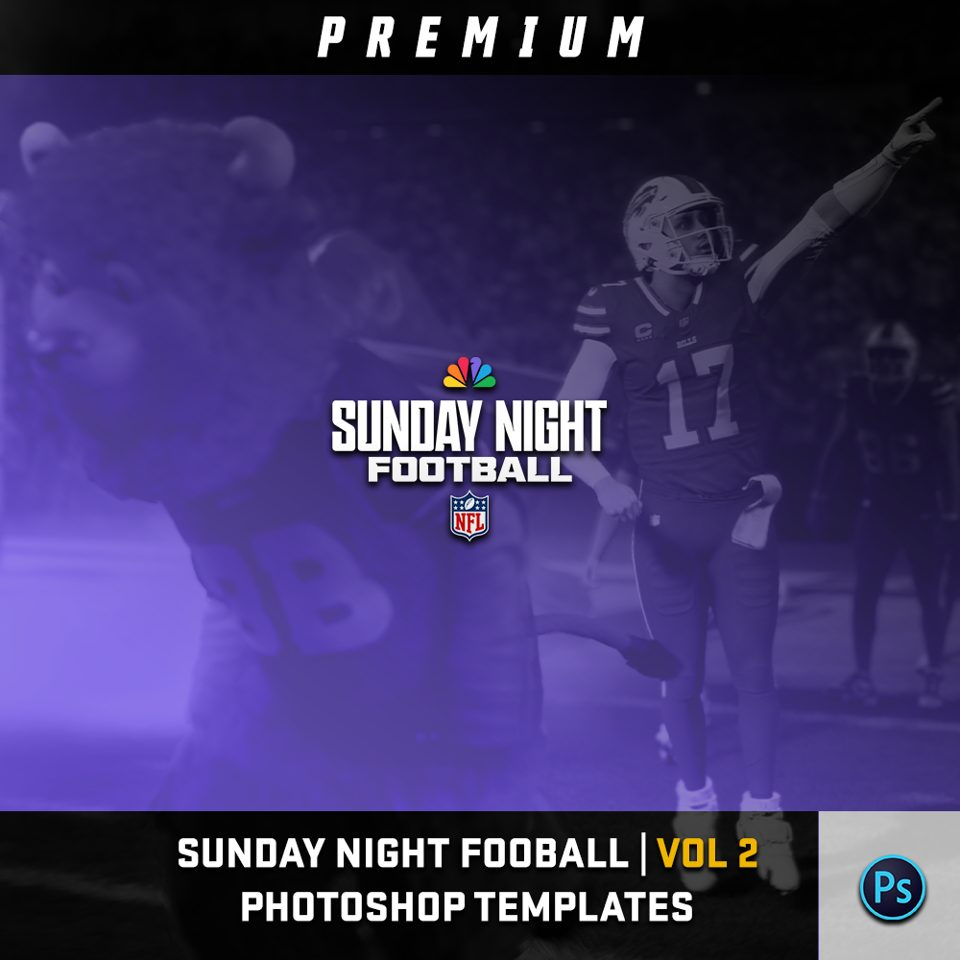
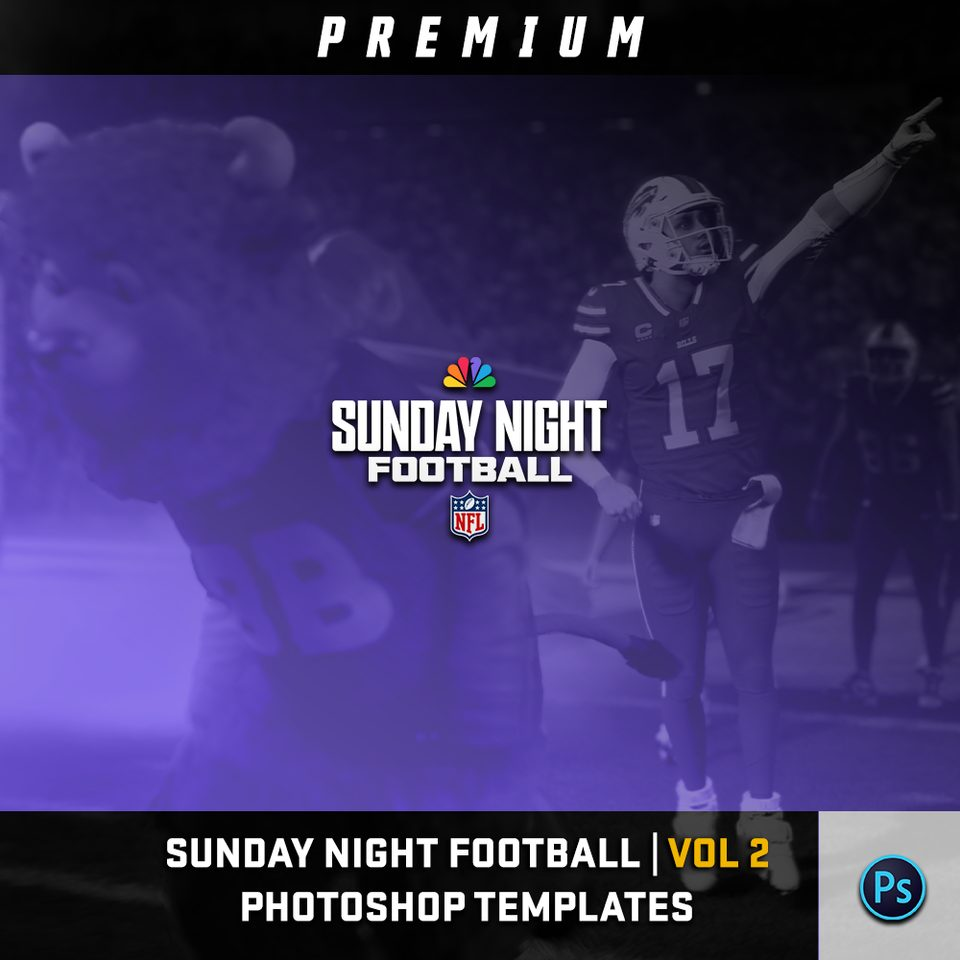
Template Store: box art for all six packs (Sunday Night typo fixed), 27 single templates, store help bot

Changed region(s): [[0.1562, 0.875, 0.8125, 0.9062]]

diff --git a/index.html b/index.html
@@ -295,6 +295,19 @@
   a.buy{display:inline-block; text-decoration:none; background:var(--accent); color:#fff; border-color:var(--accent); cursor:pointer}
   a.buy:hover,a.buy:focus-visible{filter:brightness(1.1)}
   .store-cta{display:flex; flex-wrap:wrap; gap:12px; align-items:center; margin-top:26px}
+  .singles-head{margin:44px 0 6px; display:flex; flex-wrap:wrap; gap:6px 18px; align-items:baseline}
+  .singles-head h3{font-family:"Oswald",sans-serif; font-size:1.5rem; color:#fff; margin:0; letter-spacing:.02em}
+  .singles-head p{margin:0; color:var(--on-dark-muted)}
+  .singles{display:grid; grid-template-columns:repeat(auto-fill,minmax(220px,1fr)); gap:16px; margin-top:16px}
+  .single{border:1px solid #2e3a46; border-radius:8px; background:var(--dark-2); overflow:hidden; display:flex; flex-direction:column}
+  .single .sart{aspect-ratio:16/9; max-width:100%; background:#0b1015; display:flex; align-items:center; justify-content:center}
+  .single .sart img{width:100%; height:100%; object-fit:contain; display:block}
+  .single .sbody{padding:12px 14px 14px; display:flex; flex-direction:column; gap:6px; flex:1}
+  .single .count{font-family:"IBM Plex Mono",monospace; font-size:.74rem; color:var(--gold)}
+  .single h4{margin:0; font-size:1rem; color:#fff; flex:1}
+  .single .price-row{padding-top:10px}
+  .single .price{font-size:.9rem; color:#9fb0bd}
+  .single .buy{padding:6px 12px; font-size:.8rem}
 
   /* Roadmap */
   .roadmap{list-style:none; margin:0; padding:0; display:grid; gap:0}
@@ -639,7 +652,7 @@
     </div>
 
     <div class="store-note">
-      <p><strong>Opening soon.</strong> Six packs, 89 layered Photoshop templates. Checkout and instant downloads run through the Inside MGN store on Payhip.</p>
+      <p><strong>Opening soon.</strong> Six packs, 89 layered Photoshop templates, and single templates sold one by one. Checkout and instant downloads run through the Inside MGN store on Payhip.</p>
     </div>
 
     <div class="store-grid">
@@ -671,7 +684,7 @@
         </div>
       </div>
       <div class="pack real">
-        <div class="art"><span class="soon">Box art<br>coming soon</span></div>
+        <div class="art"><img src="store-p4.jpg" alt="Power Rankings Pack box art" loading="lazy" width="960" height="960"></div>
         <div class="body">
           <span class="count">13 templates + 2 logos · layered PSD</span>
           <h3>Power Rankings Pack</h3>
@@ -680,7 +693,7 @@
         </div>
       </div>
       <div class="pack real">
-        <div class="art"><span class="soon">Box art<br>coming soon</span></div>
+        <div class="art"><img src="store-p5.jpg" alt="Gameday Show Pack box art" loading="lazy" width="960" height="960"></div>
         <div class="body">
           <span class="count">11 templates · layered PSD</span>
           <h3>Gameday Show Pack</h3>
@@ -689,7 +702,7 @@
         </div>
       </div>
       <div class="pack real">
-        <div class="art"><span class="soon">Box art<br>coming soon</span></div>
+        <div class="art"><img src="store-p6.jpg" alt="League Essentials Pack box art" loading="lazy" width="960" height="960"></div>
         <div class="body">
           <span class="count">31 templates · layered PSD</span>
           <h3>League Essentials Pack</h3>
@@ -699,10 +712,149 @@
       </div>
     </div>
 
+    <div class="singles-head"><h3>Single templates</h3><p>Need just one? Every template is also sold on its own.</p></div>
+    <div class="singles">
+        <div class="single">
+          <div class="sart"><img src="store/single-01.jpg" alt="Player by Player Promo preview" loading="lazy" width="640" height="360"></div>
+          <div class="sbody"><span class="count">From the Score Bugs and Analysis pack</span><h4>Player by Player Promo</h4>
+          <div class="price-row"><span class="price">Price coming soon</span><a class="buy" href="https://payhip.com/insidemgn" target="_blank" rel="noopener">View</a></div></div>
+        </div>
+        <div class="single">
+          <div class="sart"><img src="store/single-02.jpg" alt="Game Predictions Board preview" loading="lazy" width="640" height="360"></div>
+          <div class="sbody"><span class="count">From the Score Bugs and Analysis pack</span><h4>Game Predictions Board</h4>
+          <div class="price-row"><span class="price">Price coming soon</span><a class="buy" href="https://payhip.com/insidemgn" target="_blank" rel="noopener">View</a></div></div>
+        </div>
+        <div class="single">
+          <div class="sart"><img src="store/single-03.jpg" alt="Player Comparison preview" loading="lazy" width="640" height="360"></div>
+          <div class="sbody"><span class="count">From the Score Bugs and Analysis pack</span><h4>Player Comparison</h4>
+          <div class="price-row"><span class="price">Price coming soon</span><a class="buy" href="https://payhip.com/insidemgn" target="_blank" rel="noopener">View</a></div></div>
+        </div>
+        <div class="single">
+          <div class="sart"><img src="store/single-04.jpg" alt="Player or Team Center Piece preview" loading="lazy" width="640" height="360"></div>
+          <div class="sbody"><span class="count">From the Score Bugs and Analysis pack</span><h4>Player or Team Center Piece</h4>
+          <div class="price-row"><span class="price">Price coming soon</span><a class="buy" href="https://payhip.com/insidemgn" target="_blank" rel="noopener">View</a></div></div>
+        </div>
+        <div class="single">
+          <div class="sart"><img src="store/single-05.jpg" alt="Reasons for the Lead preview" loading="lazy" width="640" height="360"></div>
+          <div class="sbody"><span class="count">From the Score Bugs and Analysis pack</span><h4>Reasons for the Lead</h4>
+          <div class="price-row"><span class="price">Price coming soon</span><a class="buy" href="https://payhip.com/insidemgn" target="_blank" rel="noopener">View</a></div></div>
+        </div>
+        <div class="single">
+          <div class="sart"><img src="store/single-06.jpg" alt="Player Score Bar (Lower Third) preview" loading="lazy" width="640" height="360"></div>
+          <div class="sbody"><span class="count">From the Score Bugs and Analysis pack</span><h4>Player Score Bar (Lower Third)</h4>
+          <div class="price-row"><span class="price">Price coming soon</span><a class="buy" href="https://payhip.com/insidemgn" target="_blank" rel="noopener">View</a></div></div>
+        </div>
+        <div class="single">
+          <div class="sart"><img src="store/single-07.jpg" alt="Score Bar Style 1 (Lower Third) preview" loading="lazy" width="640" height="360"></div>
+          <div class="sbody"><span class="count">From the Score Bugs and Analysis pack</span><h4>Score Bar Style 1 (Lower Third)</h4>
+          <div class="price-row"><span class="price">Price coming soon</span><a class="buy" href="https://payhip.com/insidemgn" target="_blank" rel="noopener">View</a></div></div>
+        </div>
+        <div class="single">
+          <div class="sart"><img src="store/single-08.jpg" alt="Score Bar Style 2 (Lower Third) preview" loading="lazy" width="640" height="360"></div>
+          <div class="sbody"><span class="count">From the Score Bugs and Analysis pack</span><h4>Score Bar Style 2 (Lower Third)</h4>
+          <div class="price-row"><span class="price">Price coming soon</span><a class="buy" href="https://payhip.com/insidemgn" target="_blank" rel="noopener">View</a></div></div>
+        </div>
+        <div class="single">
+          <div class="sart"><img src="store/single-09.jpg" alt="Halftime Center Piece preview" loading="lazy" width="640" height="360"></div>
+          <div class="sbody"><span class="count">From the Halftime and Lower Thirds pack</span><h4>Halftime Center Piece</h4>
+          <div class="price-row"><span class="price">Price coming soon</span><a class="buy" href="https://payhip.com/insidemgn" target="_blank" rel="noopener">View</a></div></div>
+        </div>
+        <div class="single">
+          <div class="sart"><img src="store/single-10.jpg" alt="Halftime Final Score (Lower Third) preview" loading="lazy" width="640" height="360"></div>
+          <div class="sbody"><span class="count">From the Halftime and Lower Thirds pack</span><h4>Halftime Final Score (Lower Third)</h4>
+          <div class="price-row"><span class="price">Price coming soon</span><a class="buy" href="https://payhip.com/insidemgn" target="_blank" rel="noopener">View</a></div></div>
+        </div>
+        <div class="single">
+          <div class="sart"><img src="store/single-11.jpg" alt="Head to Head Center Piece preview" loading="lazy" width="640" height="360"></div>
+          <div class="sbody"><span class="count">From the Halftime and Lower Thirds pack</span><h4>Head to Head Center Piece</h4>
+          <div class="price-row"><span class="price">Price coming soon</span><a class="buy" href="https://payhip.com/insidemgn" target="_blank" rel="noopener">View</a></div></div>
+        </div>
+        <div class="single">
+          <div class="sart"><img src="store/single-12.jpg" alt="Scoreboard (Lower Third) preview" loading="lazy" width="640" height="360"></div>
+          <div class="sbody"><span class="count">From the Halftime and Lower Thirds pack</span><h4>Scoreboard (Lower Third)</h4>
+          <div class="price-row"><span class="price">Price coming soon</span><a class="buy" href="https://payhip.com/insidemgn" target="_blank" rel="noopener">View</a></div></div>
+        </div>
+        <div class="single">
+          <div class="sart"><img src="store/single-13.jpg" alt="Stadium (Lower Third) preview" loading="lazy" width="640" height="360"></div>
+          <div class="sbody"><span class="count">From the Halftime and Lower Thirds pack</span><h4>Stadium (Lower Third)</h4>
+          <div class="price-row"><span class="price">Price coming soon</span><a class="buy" href="https://payhip.com/insidemgn" target="_blank" rel="noopener">View</a></div></div>
+        </div>
+        <div class="single">
+          <div class="sart"><img src="store/single-14.jpg" alt="Player (Lower Third) preview" loading="lazy" width="640" height="360"></div>
+          <div class="sbody"><span class="count">From the Halftime and Lower Thirds pack</span><h4>Player (Lower Third)</h4>
+          <div class="price-row"><span class="price">Price coming soon</span><a class="buy" href="https://payhip.com/insidemgn" target="_blank" rel="noopener">View</a></div></div>
+        </div>
+        <div class="single">
+          <div class="sart"><img src="store/single-15.jpg" alt="Player 2 (Lower Third) preview" loading="lazy" width="640" height="360"></div>
+          <div class="sbody"><span class="count">From the Halftime and Lower Thirds pack</span><h4>Player 2 (Lower Third)</h4>
+          <div class="price-row"><span class="price">Price coming soon</span><a class="buy" href="https://payhip.com/insidemgn" target="_blank" rel="noopener">View</a></div></div>
+        </div>
+        <div class="single">
+          <div class="sart"><img src="store/single-16.jpg" alt="Three Player Stat Card preview" loading="lazy" width="640" height="360"></div>
+          <div class="sbody"><span class="count">From the Prime Time pack</span><h4>Three Player Stat Card</h4>
+          <div class="price-row"><span class="price">Price coming soon</span><a class="buy" href="https://payhip.com/insidemgn" target="_blank" rel="noopener">View</a></div></div>
+        </div>
+        <div class="single">
+          <div class="sart"><img src="store/single-17.jpg" alt="Coaching Stat Line preview" loading="lazy" width="640" height="360"></div>
+          <div class="sbody"><span class="count">From the Prime Time pack</span><h4>Coaching Stat Line</h4>
+          <div class="price-row"><span class="price">Price coming soon</span><a class="buy" href="https://payhip.com/insidemgn" target="_blank" rel="noopener">View</a></div></div>
+        </div>
+        <div class="single">
+          <div class="sart"><img src="store/single-18.jpg" alt="Head to Head Center Piece preview" loading="lazy" width="640" height="360"></div>
+          <div class="sbody"><span class="count">From the Prime Time pack</span><h4>Head to Head Center Piece</h4>
+          <div class="price-row"><span class="price">Price coming soon</span><a class="buy" href="https://payhip.com/insidemgn" target="_blank" rel="noopener">View</a></div></div>
+        </div>
+        <div class="single">
+          <div class="sart"><img src="store/single-19.jpg" alt="Player 2 (Lower Third) preview" loading="lazy" width="640" height="360"></div>
+          <div class="sbody"><span class="count">From the Prime Time pack</span><h4>Player 2 (Lower Third)</h4>
+          <div class="price-row"><span class="price">Price coming soon</span><a class="buy" href="https://payhip.com/insidemgn" target="_blank" rel="noopener">View</a></div></div>
+        </div>
+        <div class="single">
+          <div class="sart"><img src="store/single-20.jpg" alt="Player Spotlight 2 preview" loading="lazy" width="640" height="360"></div>
+          <div class="sbody"><span class="count">From the Prime Time pack</span><h4>Player Spotlight 2</h4>
+          <div class="price-row"><span class="price">Price coming soon</span><a class="buy" href="https://payhip.com/insidemgn" target="_blank" rel="noopener">View</a></div></div>
+        </div>
+        <div class="single">
+          <div class="sart"><img src="store/single-21.jpg" alt="Player Spotlight preview" loading="lazy" width="640" height="360"></div>
+          <div class="sbody"><span class="count">From the Prime Time pack</span><h4>Player Spotlight</h4>
+          <div class="price-row"><span class="price">Price coming soon</span><a class="buy" href="https://payhip.com/insidemgn" target="_blank" rel="noopener">View</a></div></div>
+        </div>
+        <div class="single">
+          <div class="sart"><img src="store/single-22.jpg" alt="Coaching News preview" loading="lazy" width="640" height="360"></div>
+          <div class="sbody"><span class="count">From the Prime Time pack</span><h4>Coaching News</h4>
+          <div class="price-row"><span class="price">Price coming soon</span><a class="buy" href="https://payhip.com/insidemgn" target="_blank" rel="noopener">View</a></div></div>
+        </div>
+        <div class="single">
+          <div class="sart"><img src="store/single-23.jpg" alt="Player Info preview" loading="lazy" width="640" height="360"></div>
+          <div class="sbody"><span class="count">From the Prime Time pack</span><h4>Player Info</h4>
+          <div class="price-row"><span class="price">Price coming soon</span><a class="buy" href="https://payhip.com/insidemgn" target="_blank" rel="noopener">View</a></div></div>
+        </div>
+        <div class="single">
+          <div class="sart"><img src="store/single-24.jpg" alt="Scoreboard preview" loading="lazy" width="640" height="360"></div>
+          <div class="sbody"><span class="count">From the Prime Time pack</span><h4>Scoreboard</h4>
+          <div class="price-row"><span class="price">Price coming soon</span><a class="buy" href="https://payhip.com/insidemgn" target="_blank" rel="noopener">View</a></div></div>
+        </div>
+        <div class="single">
+          <div class="sart"><img src="store/single-25.jpg" alt="Team Preview preview" loading="lazy" width="640" height="360"></div>
+          <div class="sbody"><span class="count">From the Prime Time pack</span><h4>Team Preview</h4>
+          <div class="price-row"><span class="price">Price coming soon</span><a class="buy" href="https://payhip.com/insidemgn" target="_blank" rel="noopener">View</a></div></div>
+        </div>
+        <div class="single">
+          <div class="sart"><img src="store/single-26.jpg" alt="Ticker preview" loading="lazy" width="640" height="360"></div>
+          <div class="sbody"><span class="count">From the Prime Time pack</span><h4>Ticker</h4>
+          <div class="price-row"><span class="price">Price coming soon</span><a class="buy" href="https://payhip.com/insidemgn" target="_blank" rel="noopener">View</a></div></div>
+        </div>
+        <div class="single">
+          <div class="sart"><img src="store/single-27.jpg" alt="Playoff Standings preview" loading="lazy" width="640" height="360"></div>
+          <div class="sbody"><span class="count">From the Prime Time pack</span><h4>Playoff Standings</h4>
+          <div class="price-row"><span class="price">Price coming soon</span><a class="buy" href="https://payhip.com/insidemgn" target="_blank" rel="noopener">View</a></div></div>
+        </div>
+    </div>
+
     <div class="store-cta"><a class="buy" href="https://payhip.com/insidemgn" target="_blank" rel="noopener">Open the Inside MGN store</a></div>
 
     <div class="store-facts">
-      <span><b>You get:</b> Layered Photoshop files and a how-to guide, downloaded right after checkout</span>
+      <span><b>You get:</b> Layered Photoshop files, downloaded right after checkout</span>
       <span><b>You need:</b> Adobe Photoshop. Fonts are listed, not included. Add your own logos and names</span>
       <span><b>Not included:</b> Team logos, player photos and network marks</span>
     </div>
@@ -1136,6 +1288,85 @@
       });
     });
   })();
+</script>
+
+<!-- Store helper (Nov 17): answers the common store questions on the page; anything else goes to a person -->
+<style>
+  .helpbtn{position:fixed; right:calc(18px + env(safe-area-inset-right,0px)); bottom:calc(18px + env(safe-area-inset-bottom,0px)); z-index:60;
+    font:inherit; font-weight:700; background:var(--accent); color:#fff; border:none; border-radius:999px; padding:12px 18px;
+    box-shadow:0 6px 20px rgba(0,0,0,.35); cursor:pointer}
+  .helpbtn:focus-visible,.helpbox button:focus-visible,.helpbox input:focus-visible{outline:2px solid var(--gold); outline-offset:2px}
+  .helpbox{position:fixed; right:calc(18px + env(safe-area-inset-right,0px)); bottom:calc(76px + env(safe-area-inset-bottom,0px)); z-index:61;
+    width:min(360px, calc(100vw - 32px)); max-height:min(520px, calc(100vh - 120px)); display:flex; flex-direction:column;
+    background:#10161d; color:#eef1f3; border:1px solid #2e3a46; border-radius:10px; box-shadow:0 12px 40px rgba(0,0,0,.45); overflow:hidden}
+  .helphead{display:flex; align-items:center; justify-content:space-between; padding:12px 14px; background:#1a232e; border-bottom:1px solid #2e3a46}
+  .helphead b{font-family:"Oswald",sans-serif; letter-spacing:.04em; font-weight:600}
+  .helphead button{background:none; border:none; color:#9fb0bd; font-size:1.3rem; cursor:pointer; line-height:1}
+  .helplog{flex:1; overflow-y:auto; padding:12px 14px; display:flex; flex-direction:column; gap:8px; font-size:.93rem}
+  .hm{max-width:88%; padding:8px 11px; border-radius:10px; line-height:1.4}
+  .hm.bot{background:#1c242e; align-self:flex-start}
+  .hm.me{background:var(--accent); color:#fff; align-self:flex-end}
+  .hm a{color:#ffd27a}
+  .helpchips{display:flex; flex-wrap:wrap; gap:6px; padding:0 14px 10px}
+  .helpchips button{font:inherit; font-size:.8rem; background:#1c242e; color:#d3dbe1; border:1px solid #2e3a46; border-radius:999px; padding:5px 10px; cursor:pointer}
+  .helpform{display:flex; gap:8px; padding:10px 14px; border-top:1px solid #2e3a46}
+  .helpform input{flex:1; min-width:0; font:inherit; background:#0b1015; color:#eef1f3; border:1px solid #2e3a46; border-radius:6px; padding:8px 10px}
+  .helpform button{font:inherit; font-weight:700; background:var(--accent); color:#fff; border:none; border-radius:6px; padding:8px 12px; cursor:pointer}
+</style>
+<button class="helpbtn" id="helpBtn" type="button" aria-expanded="false" aria-controls="helpBox">Questions?</button>
+<div class="helpbox" id="helpBox" role="dialog" aria-label="Store help" hidden>
+  <div class="helphead"><b>Inside MGN help</b><button type="button" id="helpClose" aria-label="Close help">&times;</button></div>
+  <div class="helplog" id="helpLog" aria-live="polite"></div>
+  <div class="helpchips" id="helpChips"></div>
+  <form class="helpform" id="helpForm"><input id="helpIn" type="text" autocomplete="off" placeholder="Ask about downloads, Photoshop, refunds..." aria-label="Your question"><button type="submit">Ask</button></form>
+</div>
+<script>
+(function(){
+  var STORE = 'https://payhip.com/insidemgn';
+  var A = [
+    {k:['download','link','email','receive','get my','where is','didn\'t get','didnt get','not get'], q:'Where is my download?',
+     a:'Right after checkout, Payhip shows a download button and emails you a download link. Check your spam folder for an email from Payhip.'},
+    {k:['open','won\'t open','wont open','error','corrupt','broken','zip','unzip','extract'], q:'My file will not open',
+     a:'Unzip the download first (right-click, Extract All on Windows, or double-click on a Mac), then open the .psd file in Adobe Photoshop. If it still will not open, it may be a broken file. Tap "Talk to a person" and we will send a fresh copy.'},
+    {k:['photoshop','software','canva','photopea','gimp','program','app','need'], q:'What do I need?',
+     a:'Adobe Photoshop. These are layered .psd files. They are not Canva templates. Fonts are listed in the download, not included, and you add your own team logos, names and photos.'},
+    {k:['font','fonts','typeface'], q:'Are fonts included?',
+     a:'Fonts are not included. Each download lists the fonts used, so you can install them yourself.'},
+    {k:['logo','logos','player photo','photos','team'], q:'Are logos included?',
+     a:'No. Team logos, player photos and network marks are not included. You drop in your own.'},
+    {k:['refund','money back','return','charged twice','double'], q:'Can I get a refund?',
+     a:'Digital files cannot be returned once downloaded. You get a full refund for a double charge, a broken file, or a mistake you tell us about before you download. Tap "Talk to a person" for any of those.'},
+    {k:['license','commercial','youtube','stream','monetize','resell','sell','share'], q:'Can I use these on YouTube?',
+     a:'Yes. You can use them in your own videos and streams, including monetized ones. You cannot resell or share the template files themselves.'},
+    {k:['which','pack','bundle','single','individual','one template','difference'], q:'Pack or single template?',
+     a:'Packs give you a full show look for less per template. If you only need one piece, like a score bar or a lower third, buy it on its own from the Single templates list.'},
+    {k:['price','cost','how much','discount','sale'], q:'How much are they?',
+     a:'Prices are on each item in the store. Packs cost less per template than buying singles.'},
+    {k:['pay','payment','paypal','card','stripe','checkout'], q:'How do I pay?',
+     a:'Checkout runs through Payhip. Pay by card at checkout, and your files are ready right away.'},
+    {k:['edit','change color','colors','how to','tutorial','guide'], q:'How do I edit them?',
+     a:'Open the .psd in Photoshop, double-click a text layer to type your own words, and swap the picture layers for your own logos and photos.'}
+  ];
+  var PERSON = 'No problem. Use the Contact link at the top of the <a href="'+STORE+'" target="_blank" rel="noopener">Inside MGN store</a> and include your order email. A real person reads every message and gets back to you.';
+  var box=document.getElementById('helpBox'), btn=document.getElementById('helpBtn'), log=document.getElementById('helpLog'),
+      chips=document.getElementById('helpChips'), form=document.getElementById('helpForm'), input=document.getElementById('helpIn');
+  function say(t, who){ var d=document.createElement('div'); d.className='hm '+(who||'bot'); if(who==='me') d.textContent=t; else d.innerHTML=t; log.appendChild(d); log.scrollTop=log.scrollHeight; }
+  function answer(t){
+    var low=t.toLowerCase(); if(/person|human|someone|agent|help me|contact|support/.test(low)) return say(PERSON);
+    var best=null, score=0;
+    A.forEach(function(x){ var n=0; x.k.forEach(function(k){ if(low.indexOf(k)>=0) n+=k.length; }); if(n>score){score=n; best=x;} });
+    say(best ? best.a : PERSON.replace('No problem.', 'I can't answer that one here, but a person can.'));
+  }
+  ['Where is my download?','My file will not open','What do I need?','Can I get a refund?','Talk to a person'].forEach(function(q){
+    var b=document.createElement('button'); b.type='button'; b.textContent=q;
+    b.onclick=function(){ say(q,'me'); var x=A.filter(function(a){return a.q===q;})[0]; say(x ? x.a : PERSON); };
+    chips.appendChild(b);
+  });
+  function toggle(on){ box.hidden=!on; btn.setAttribute('aria-expanded', on?'true':'false'); if(on){ if(!log.children.length) say('Hi! I can help with downloads, Photoshop, refunds and licenses. What do you need?'); input.focus(); } }
+  btn.onclick=function(){ toggle(box.hidden); };
+  document.getElementById('helpClose').onclick=function(){ toggle(false); btn.focus(); };
+  form.addEventListener('submit', function(e){ e.preventDefault(); var t=input.value.trim(); if(!t) return; say(t,'me'); input.value=''; answer(t); });
+})();
 </script>
 </body>
 </html>
